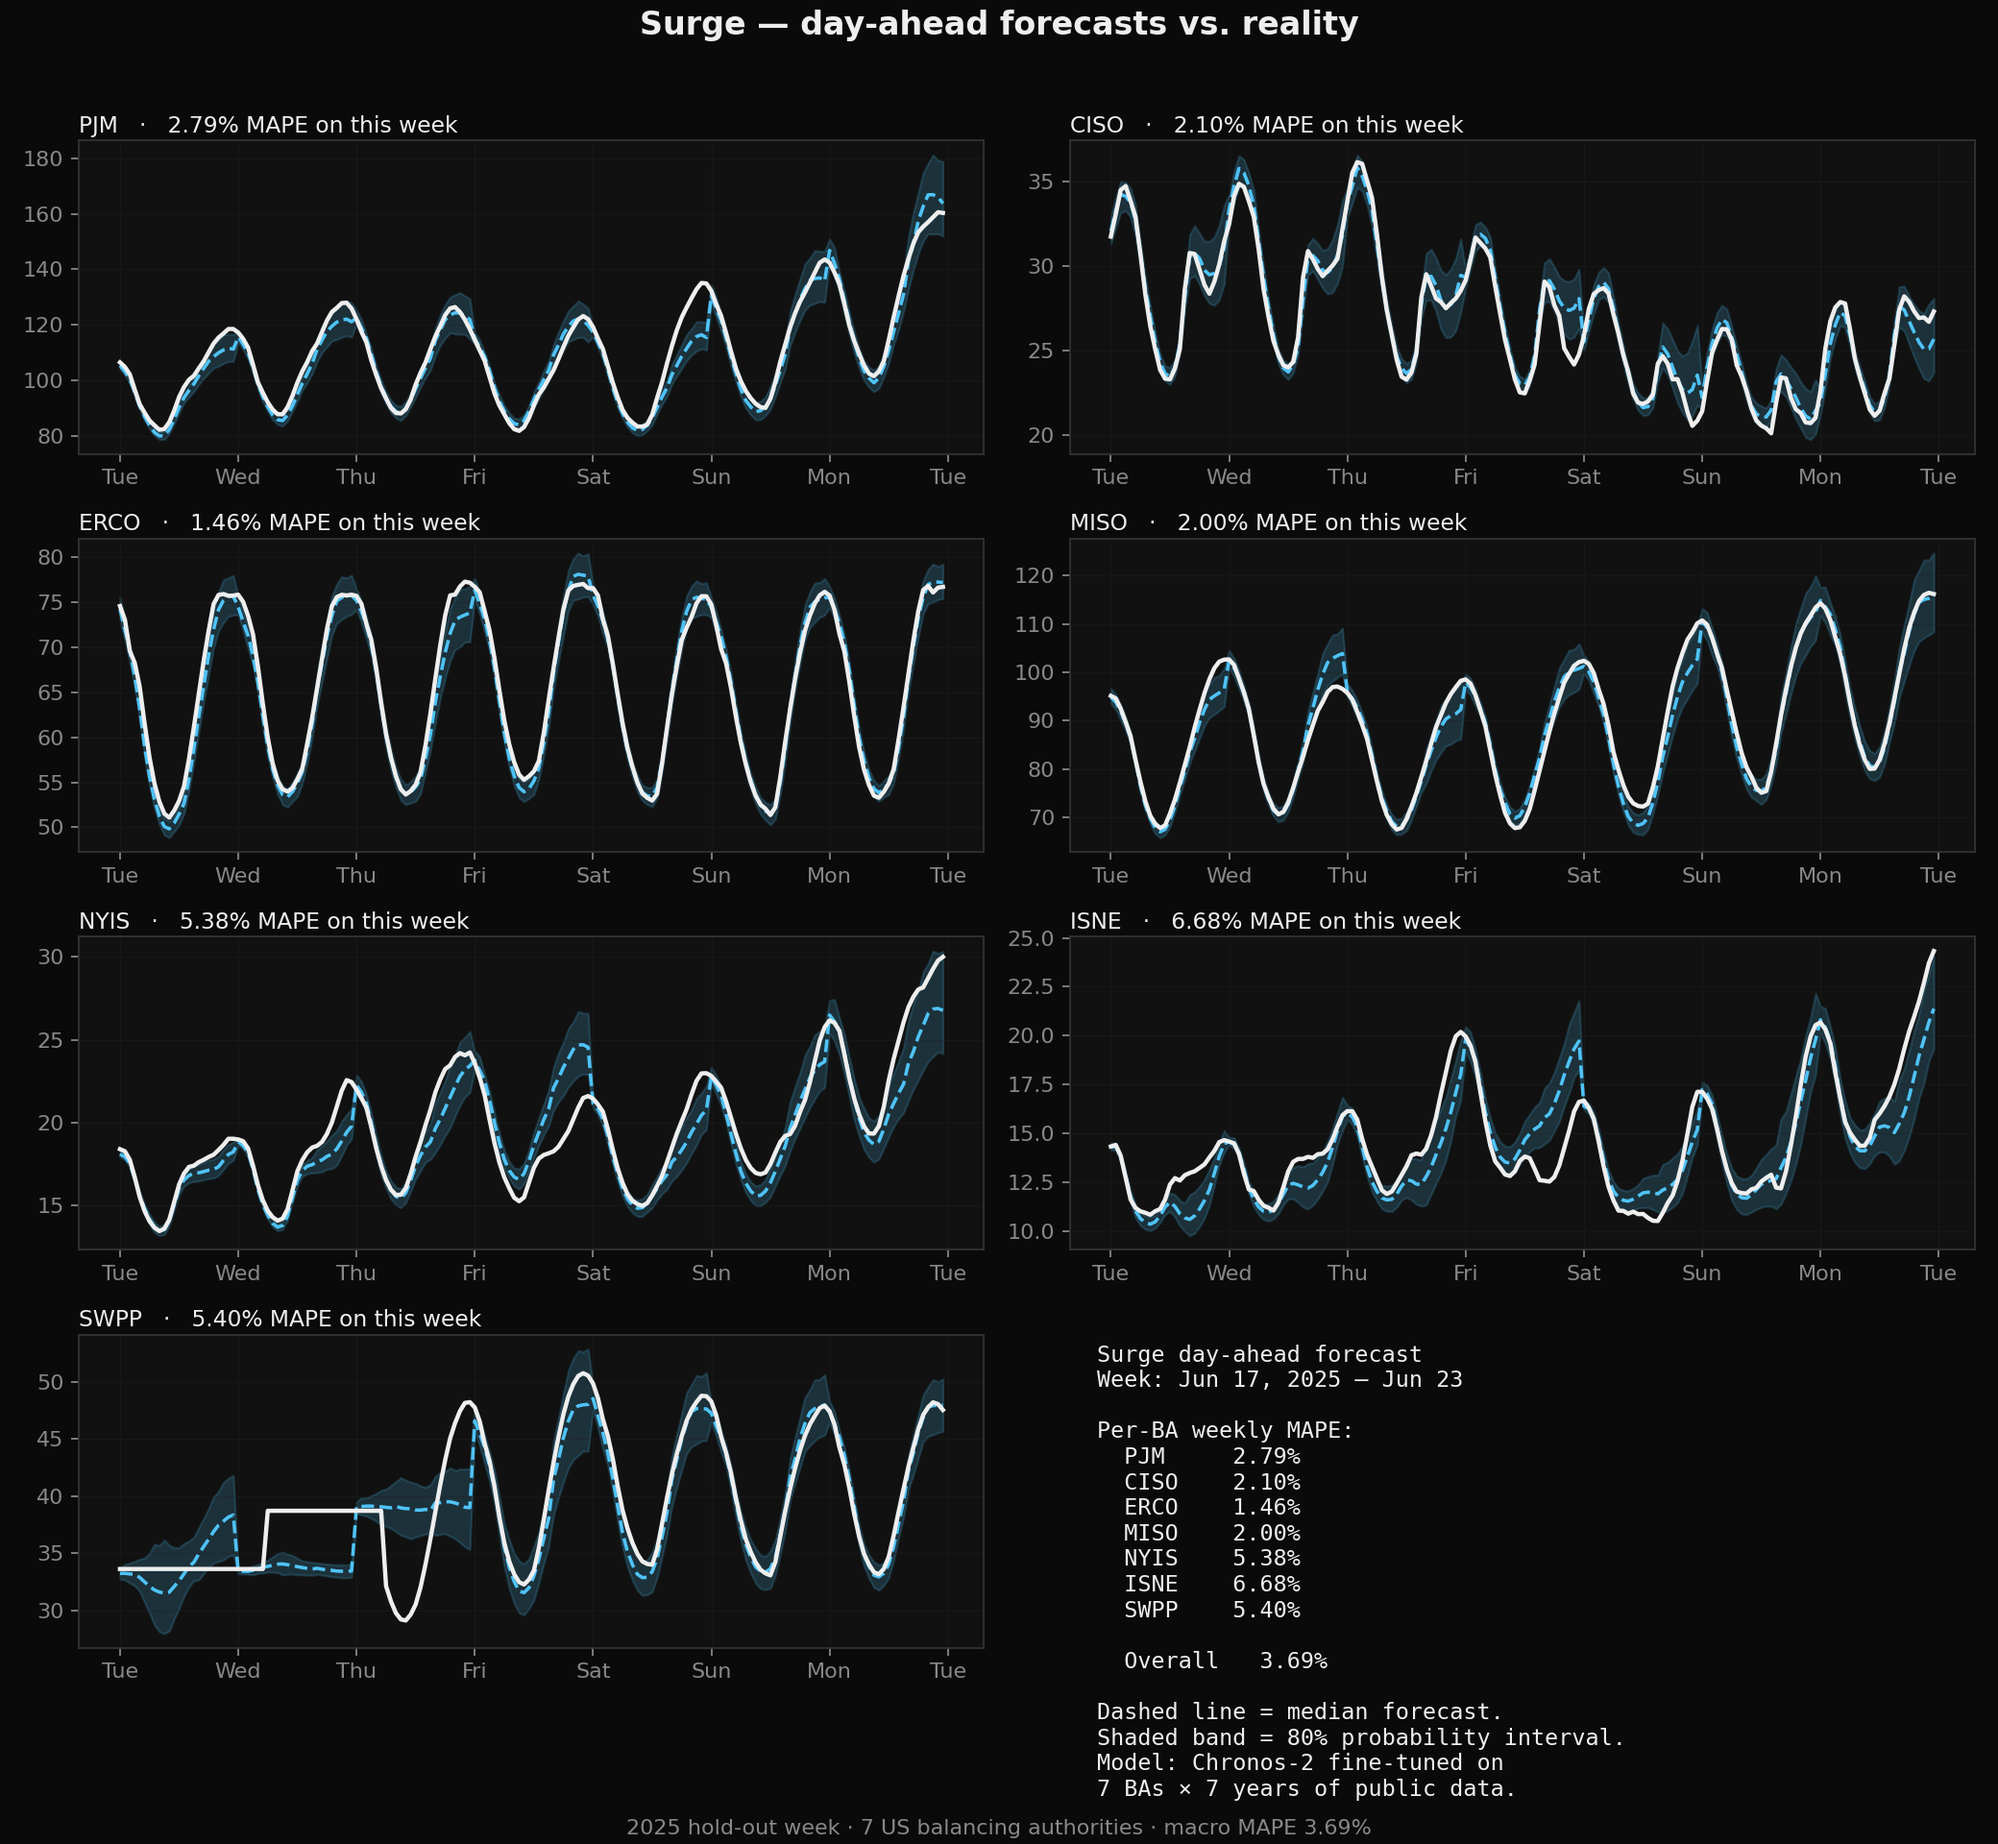
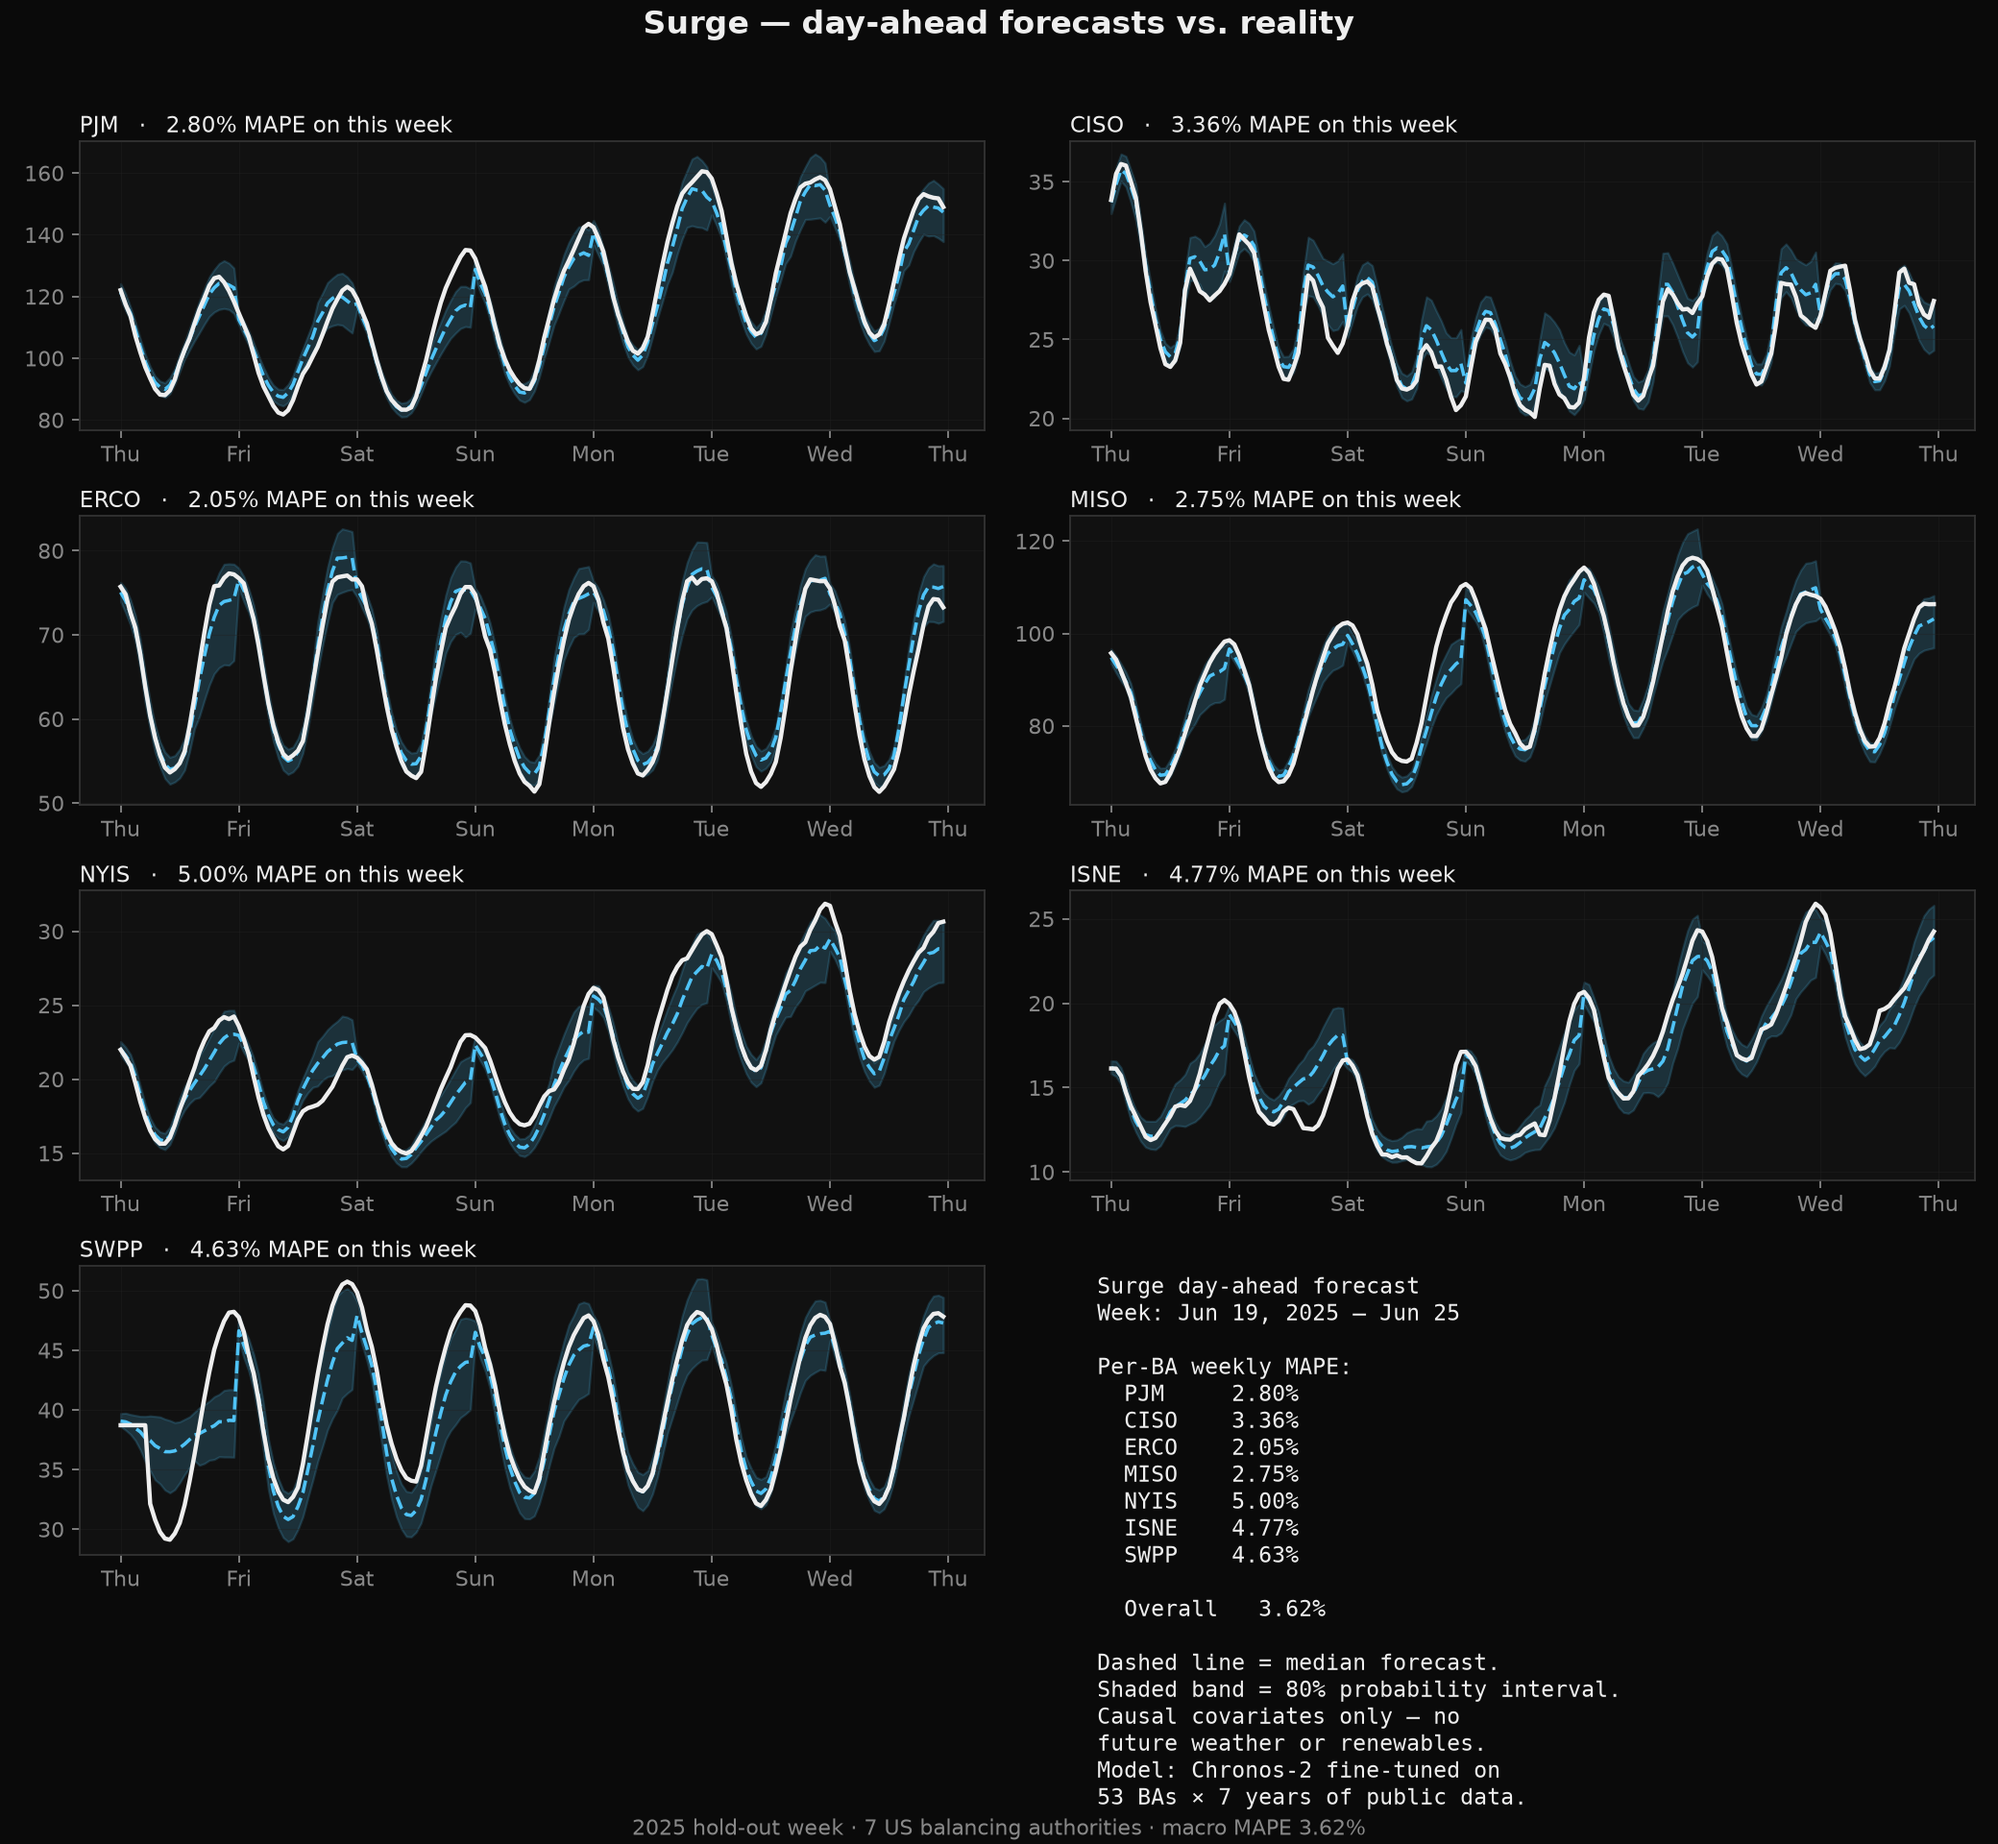
docs: regenerate plots causally, restore leaderboard, correct horizon claim
Crossover moves from ~70h to 41h once measured without leakage; by 168h the
model is worse than naive (MASE 1.202). Also fixes plot defects found on
inspection: clipped leaderboard footer, horizon y-axis truncating the curve
at 1.3 while it reaches 1.8, a footer mislabelling the split as 2024 val,
and a forward-filled flat run in SWPP that the hero week-picker let through.

diff --git a/docs/make_readme_plots.py b/docs/make_readme_plots.py
@@ -81,9 +81,28 @@ def hero_forecast() -> Path:
     for i in range(0, len(test_slice) - week_hours, 24):
         w = test_slice[i:i + week_hours].max()
         # Skip windows with suspicious SWPP gaps (min < 10% of typical)
-        swpp_w = bas["SWPP"].target[bas["SWPP"].val_end + i:
-                                      bas["SWPP"].val_end + i + week_hours]
-        if swpp_w.min() < 5_000:  # SWPP typical load > 20 GW
+        def _flatlined(series: np.ndarray, run: int = 8) -> bool:
+            """True if `run` or more consecutive hours are identical — the
+            signature of a forward-filled gap, which reads as a drawing error
+            in the hero chart even though the forecast is fine."""
+            if len(series) <= run:
+                return False
+            same = np.diff(series) == 0
+            best = cur = 0
+            for flag in same:
+                cur = cur + 1 if flag else 0
+                best = max(best, cur)
+            return best >= run - 1
+
+        bad_window = False
+        for other in BAS:
+            od = bas[other]
+            ow = od.target[od.val_end + i:od.val_end + i + week_hours]
+            if len(ow) < week_hours or _flatlined(ow):
+                bad_window = True
+                break
+        if bad_window or bas["SWPP"].target[bas["SWPP"].val_end + i:
+                                            bas["SWPP"].val_end + i + week_hours].min() < 5_000:
             continue
         if w > peak_val:
             peak_val = w
@@ -197,7 +216,7 @@ def leaderboard() -> Path:
     ax.set_yticks(y); ax.set_yticklabels(labels, fontsize=10)
     ax.invert_yaxis()
     ax.set_xlabel("Test MASE  (lower is better, 95% CI)", color=FG, fontsize=11)
-    ax.set_xlim(0, 2.4)
+    ax.set_xlim(0, 1.25)
     ax.set_title("Surge vs. baselines, 2025 hold-out — causal covariates only",
                  color=FG, fontsize=13, fontweight="bold", loc="left", pad=12)
     for i, m in enumerate(mase):
@@ -206,11 +225,11 @@ def leaderboard() -> Path:
     for s in ax.spines.values():
         s.set_color("#333")
     fig.text(0.01, 0.01,
-             "7 US RTOs, macro MASE, 365 rolling 24h-ahead windows over calendar 2025, "
-             "denominator = per-BA train seasonal-naive (m=24). No future weather or "
+             "7 US RTOs, macro MASE, 365 rolling 24h-ahead windows over calendar 2025.\n"
+             "Denominator = per-BA train seasonal-naive (m=24). No future weather or\n"
              "renewables except the labelled perfect-foresight bar.",
-             color=MUTED, fontsize=8.5)
-    fig.tight_layout(rect=[0, 0.03, 1, 1])
+             color=MUTED, fontsize=8.5, linespacing=1.5)
+    fig.tight_layout(rect=[0, 0.10, 1, 1])
     path = OUT / "leaderboard.png"
     fig.savefig(path, dpi=160)
     plt.close(fig)
@@ -280,16 +299,17 @@ def horizon_curve() -> Path:
 
     ax.set_xlabel("Forecast horizon  (hours ahead)", fontsize=11, color=FG)
     ax.set_ylabel("MASE  (lower = better)", fontsize=11, color=FG)
-    ax.set_xlim(0, 170); ax.set_ylim(0, 1.3)
+    ax.set_xlim(0, 170); ax.set_ylim(0, max(1.35, float(per_step.max()) * 1.08))
     ax.set_xticks([1, 24, 48, 72, 120, 168])
     ax.set_title("How far ahead can Surge predict before it loses to a naive baseline?",
                  color=FG, fontsize=13, fontweight="bold", loc="left", pad=10)
     ax.grid(True, alpha=0.25)
     for s in ax.spines.values():
         s.set_color("#333")
-    ax.legend(loc="upper left", frameon=False, labelcolor=FG, fontsize=10)
+    ax.legend(loc="lower right", frameon=False, labelcolor=FG, fontsize=10)
     fig.text(0.01, 0.01,
-             "Per-step MASE from a single h=168 forecast, macro over 7 BAs, 2024 val.",
+             "Per-step MASE from a single h=168 forecast, macro over 7 US RTOs, "
+             "2025 test split, causal covariates (no future weather).",
              color=MUTED, fontsize=8.5)
     fig.tight_layout(rect=[0, 0.03, 1, 1])
     path = OUT / "horizon_curve.png"

diff --git a/README.md b/README.md
@@ -137,6 +137,8 @@ that silently grew past 2025. Full accounting in [#1](../../issues/1).
 
 ### 7-RTO subset (2025 hold-out, causal covariates)
 
+![Surge vs. classical and foundation baselines, causal covariates](docs/plots/leaderboard.png)
+
 | Model | Test MASE | vs. seasonal-naive-24 |
 |---|---:|---:|
 | seasonal-naive-24 (baseline) | 1.044 | — |
@@ -235,20 +237,25 @@ for the operator side, then `python -m experiments.run_c2 rto7
 
 ![Horizon degradation curve](docs/plots/horizon_curve.png)
 
-> **Stale.** This curve was generated under the superseded protocol
-> (perfect-foresight covariates, undeduplicated store, unpinned window), so
-> the ~70-hour crossover it shows is not trustworthy. It needs regenerating
-> before the claim is repeated. The same applies to
-> `docs/plots/leaderboard.png`, which is why that figure no longer appears
-> above.
+Per-step forecast skill crosses the seasonal-naive-24 line at **41 hours
+(≈1.7 days)**. Matched-horizon MASE:
 
-What can be said now: the model currently receives **no future weather at
-all**, because every causal temperature proxy tried so far scored worse than
-withholding temperature — including flat persistence, which is what the live
-API still sends and which is measurably *harmful* (RTO MASE 0.740 with it
-versus 0.594 without). The cause is a train/serve mismatch: the checkpoint
-was fine-tuned with exact temperature over the horizon, so it treats the
-covariate as reliable and an imprecise stand-in misleads it.
+| horizon | 1 h | 6 h | 24 h | 72 h | 168 h |
+|---|---:|---:|---:|---:|---:|
+| MASE | 0.213 | 0.305 | 0.572 | 0.901 | 1.202 |
+
+An earlier version of this section claimed a ~70-hour (2.9-day) crossover.
+That figure came from the leaky protocol; measured causally the useful
+horizon is roughly **half** what was advertised, and by one week ahead the
+model is worse than "same as last week" (MASE 1.202).
+
+The model currently receives **no future weather at all**, because every
+causal temperature proxy tried so far scored worse than withholding
+temperature — including flat persistence, which is what the live API still
+sends and which is measurably *harmful* (RTO MASE 0.740 with it versus 0.594
+without). The cause is a train/serve mismatch: the checkpoint was fine-tuned
+with exact temperature over the horizon, so it treats the covariate as
+reliable and an imprecise stand-in misleads it.
 
 Closing the 0.572 → 0.468 perfect-foresight gap therefore needs a *genuine*
 weather forecast — real HRRR/GFS archives (`surge.scrapers.hrrr` exists but
@@ -294,8 +301,6 @@ figures are upper bounds rather than achievable forecasts.
       MASE denominator for BANC, SPA, LGEE, SEC, TEPC)
 - [ ] Stop sending flat persistence temperature from the live API; it scores
       worse than sending no future temperature
-- [ ] Regenerate docs/plots/{leaderboard,horizon_curve}.png under the
-      causal protocol
 - [ ] Conformal calibration — the nominal 80% band covers ~76%
 - [ ] Phase 2: LMP forecasting task, Hugging Face dataset release
 - [ ] Phase 3: scenario simulator (surge-sim)
